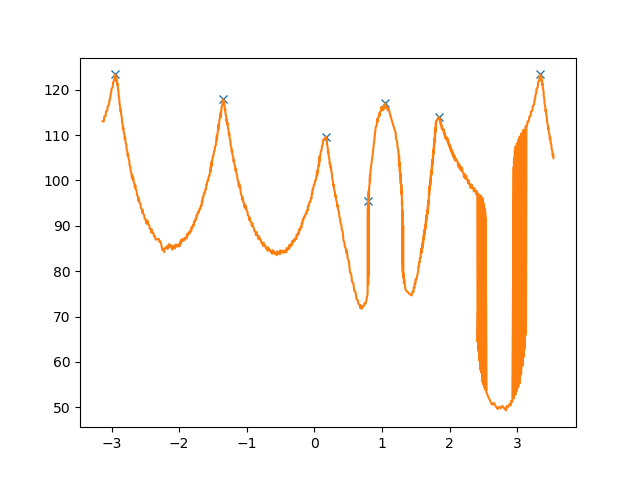
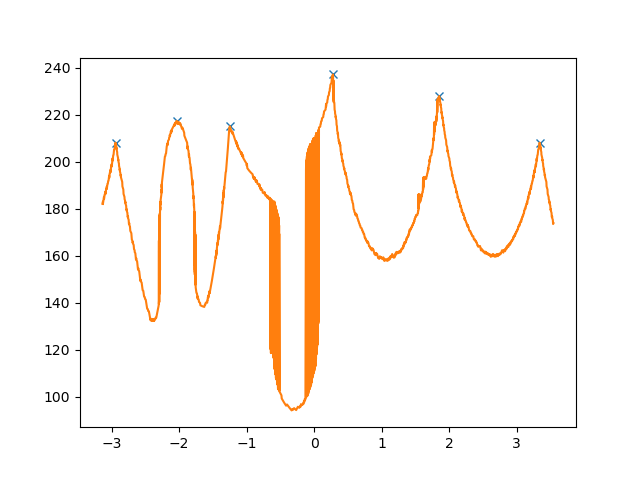
Started integration

diff --git a/main.py b/main.py
@@ -1,40 +1,55 @@
 import image_processing.image_proc as im_proc
 import image_processing.util as util
 import image_processing.camera as camera
-
+import time
 import algorithmics.puzzle as puzzle
-
+import cv2
 import mechanics.mechanics_api as mechanics_api
 
 # Exciting! actual real main
 # Need to think about shceme - maybe we need thread for greedy in terms of speed
 # If it's slow, then greedy and execution are intertwined
 
+def showImage(name,image):
+    img_show = cv2.resize(image, None, fx=0.2, fy=0.2)
+    cv2.imshow(name,img_show)
 
 def get_images(test=True):
     if test:
         above, below = util.get_test_images()
     else:
-        above = camera.take_picture(still_camera=True)
-        mechanics_api.send_command("U", 0)
-        below = camera.take_picture(still_camera=True)
-        mechanics_api.send_command("U", 1)
+        for i in range(3):
+            below = camera.take_picture(still_camera=True)
+
+        mechanics_api.send_command("L", 1) #1 for turn off
+        time.sleep(0.5)
+        for i in range(3):
+            above = camera.take_picture(still_camera=True)
 
     return above, below
 
 
 def main():
     # Parse pieces
-    above, below = get_images(test=True)
-    pieces = im_proc.get_pieces(above, below)
-    puzzle_obj = puzzle.Puzzle(pieces)
+    above, below = get_images(test=False)
+    above = util.relevant_section(above)
+    below = util.relevant_section(below)
+    showImage("above",above)
+    showImage("below",below)
+    cv2.waitKey(0)
 
-    # Build puzzle
-    puzzle_obj.greedy()
-    puzzle_obj.display()
+    pieces = im_proc.get_pieces(above, below)
+    print("pieces")
+
+    #puzzle_obj = puzzle.Puzzle(pieces)
+
+    # # Build puzzle
+    # puzzle_obj.greedy()
+    # puzzle_obj.display()
 
     # Execute puzzle
 
 
 if __name__ == "__main__":
     main()
+

diff --git a/image_processing/image_proc.py b/image_processing/image_proc.py
@@ -8,13 +8,24 @@ import image_processing.parse_pieces as parse_pieces
 
 
 def get_pieces(above, below):
+    below = cv2.cvtColor(below, cv2.COLOR_BGR2GRAY)
+    util.output("below", below)
+    cv2.waitKey(0)
+
     below, binary = parse_pieces.create_mask(below)
+
+
+
+    util.output("below", binary*255)
+    cv2.waitKey(0)
     masked = parse_pieces.mask_rgb(above, binary)
 
     util.output("below", below)
-    # cv2.waitKey(0)
+    cv2.waitKey(0)
 
     not_masked = parse_pieces.show_diffs(above, binary)
+
+    print("here")
     recoged, pieces = parse_pieces.recog_pieces(masked, below, binary)
 
     pieces[0].compare_piece(pieces[1])

diff --git a/image_processing/parse_pieces.py b/image_processing/parse_pieces.py
@@ -7,6 +7,8 @@ import image_processing.piece as piece
 
 
 def create_mask(below):
+    print(below.shape)
+
     below[below >= THRESH] = 0
     below[below >= 1] = 255
 
@@ -21,6 +23,7 @@ def create_mask(below):
 
 
 def mask_rgb(above, binary):
+    print(binary.shape)
     mask = cv2.cvtColor(binary, cv2.COLOR_GRAY2RGB)
     masked = above * mask
 
@@ -58,6 +61,6 @@ def recog_pieces(above, below, binary):
             index += 1
 
     util.output("test", recoged)
-    # cv2.waitKey(0)
+    cv2.waitKey(0)
 
     return recoged, pieces

diff --git a/mechanics/mechanics_api.py b/mechanics/mechanics_api.py
@@ -3,7 +3,7 @@ from time import sleep
 
 # Enter your COM port in the below line
 try:
-    ard = serial.Serial('COM7', 9600)
+    ard = serial.Serial('COM3', 9600)
     sleep(2)
     print(ard.readline(ard.inWaiting()))
 except:
@@ -17,7 +17,7 @@ def send_command(motor, mode, speed=1000):
     print(ard.readline(ard.inWaiting()))
 
     ard.write(cmnd.encode())
-    sleep(1)
+    sleep(0.5)
 
 
 def get_log():

diff --git a/image_processing/util.py b/image_processing/util.py
@@ -37,9 +37,9 @@ def relevant_section(img):
     # tmp = img[70:-100,300:-230]
 
     #for 4 pieces
-    tmp = img[100:-100,300:-230]
-
-    cv2.imshow("tmp", cv2.resize(tmp, dsize=(500, 500), interpolation=cv2.INTER_CUBIC))
+    # tmp = img[100:-100,100:-230]
+    tmp = img[30:-300,780:-1070]
+    cv2.imshow("tmp",cv2.resize(tmp, None, fx=0.2, fy=0.2))
     # cv2.waitKey(0)
     return tmp
 

diff --git a/image_processing/camera.py b/image_processing/camera.py
@@ -9,7 +9,7 @@ D=np.array([[-0.12271606120274124], [0.2074119120947846], [-0.4160633486018614],
 
 # Create a VideoCapture object and read from input file
 try:
-    STILL_CAP = cv2.VideoCapture(1)
+    STILL_CAP = cv2.VideoCapture(0)
     STILL_CAP.set(cv2.CAP_PROP_FRAME_WIDTH, DIM[0])
     STILL_CAP.set(cv2.CAP_PROP_FRAME_HEIGHT, DIM[1])
 

diff --git a/image_processing/constants.py b/image_processing/constants.py
@@ -5,7 +5,7 @@ BELOW = BASE + "below6.jpeg"
 RESULTS_BASE = "./image_processing/results/"
 PIECES_BASE = "./image_processing/pieces/"
 
-THRESH = 75
+THRESH = 220
 CNT_THRESH = 50
 
 PIECE_MARGIN = 10
